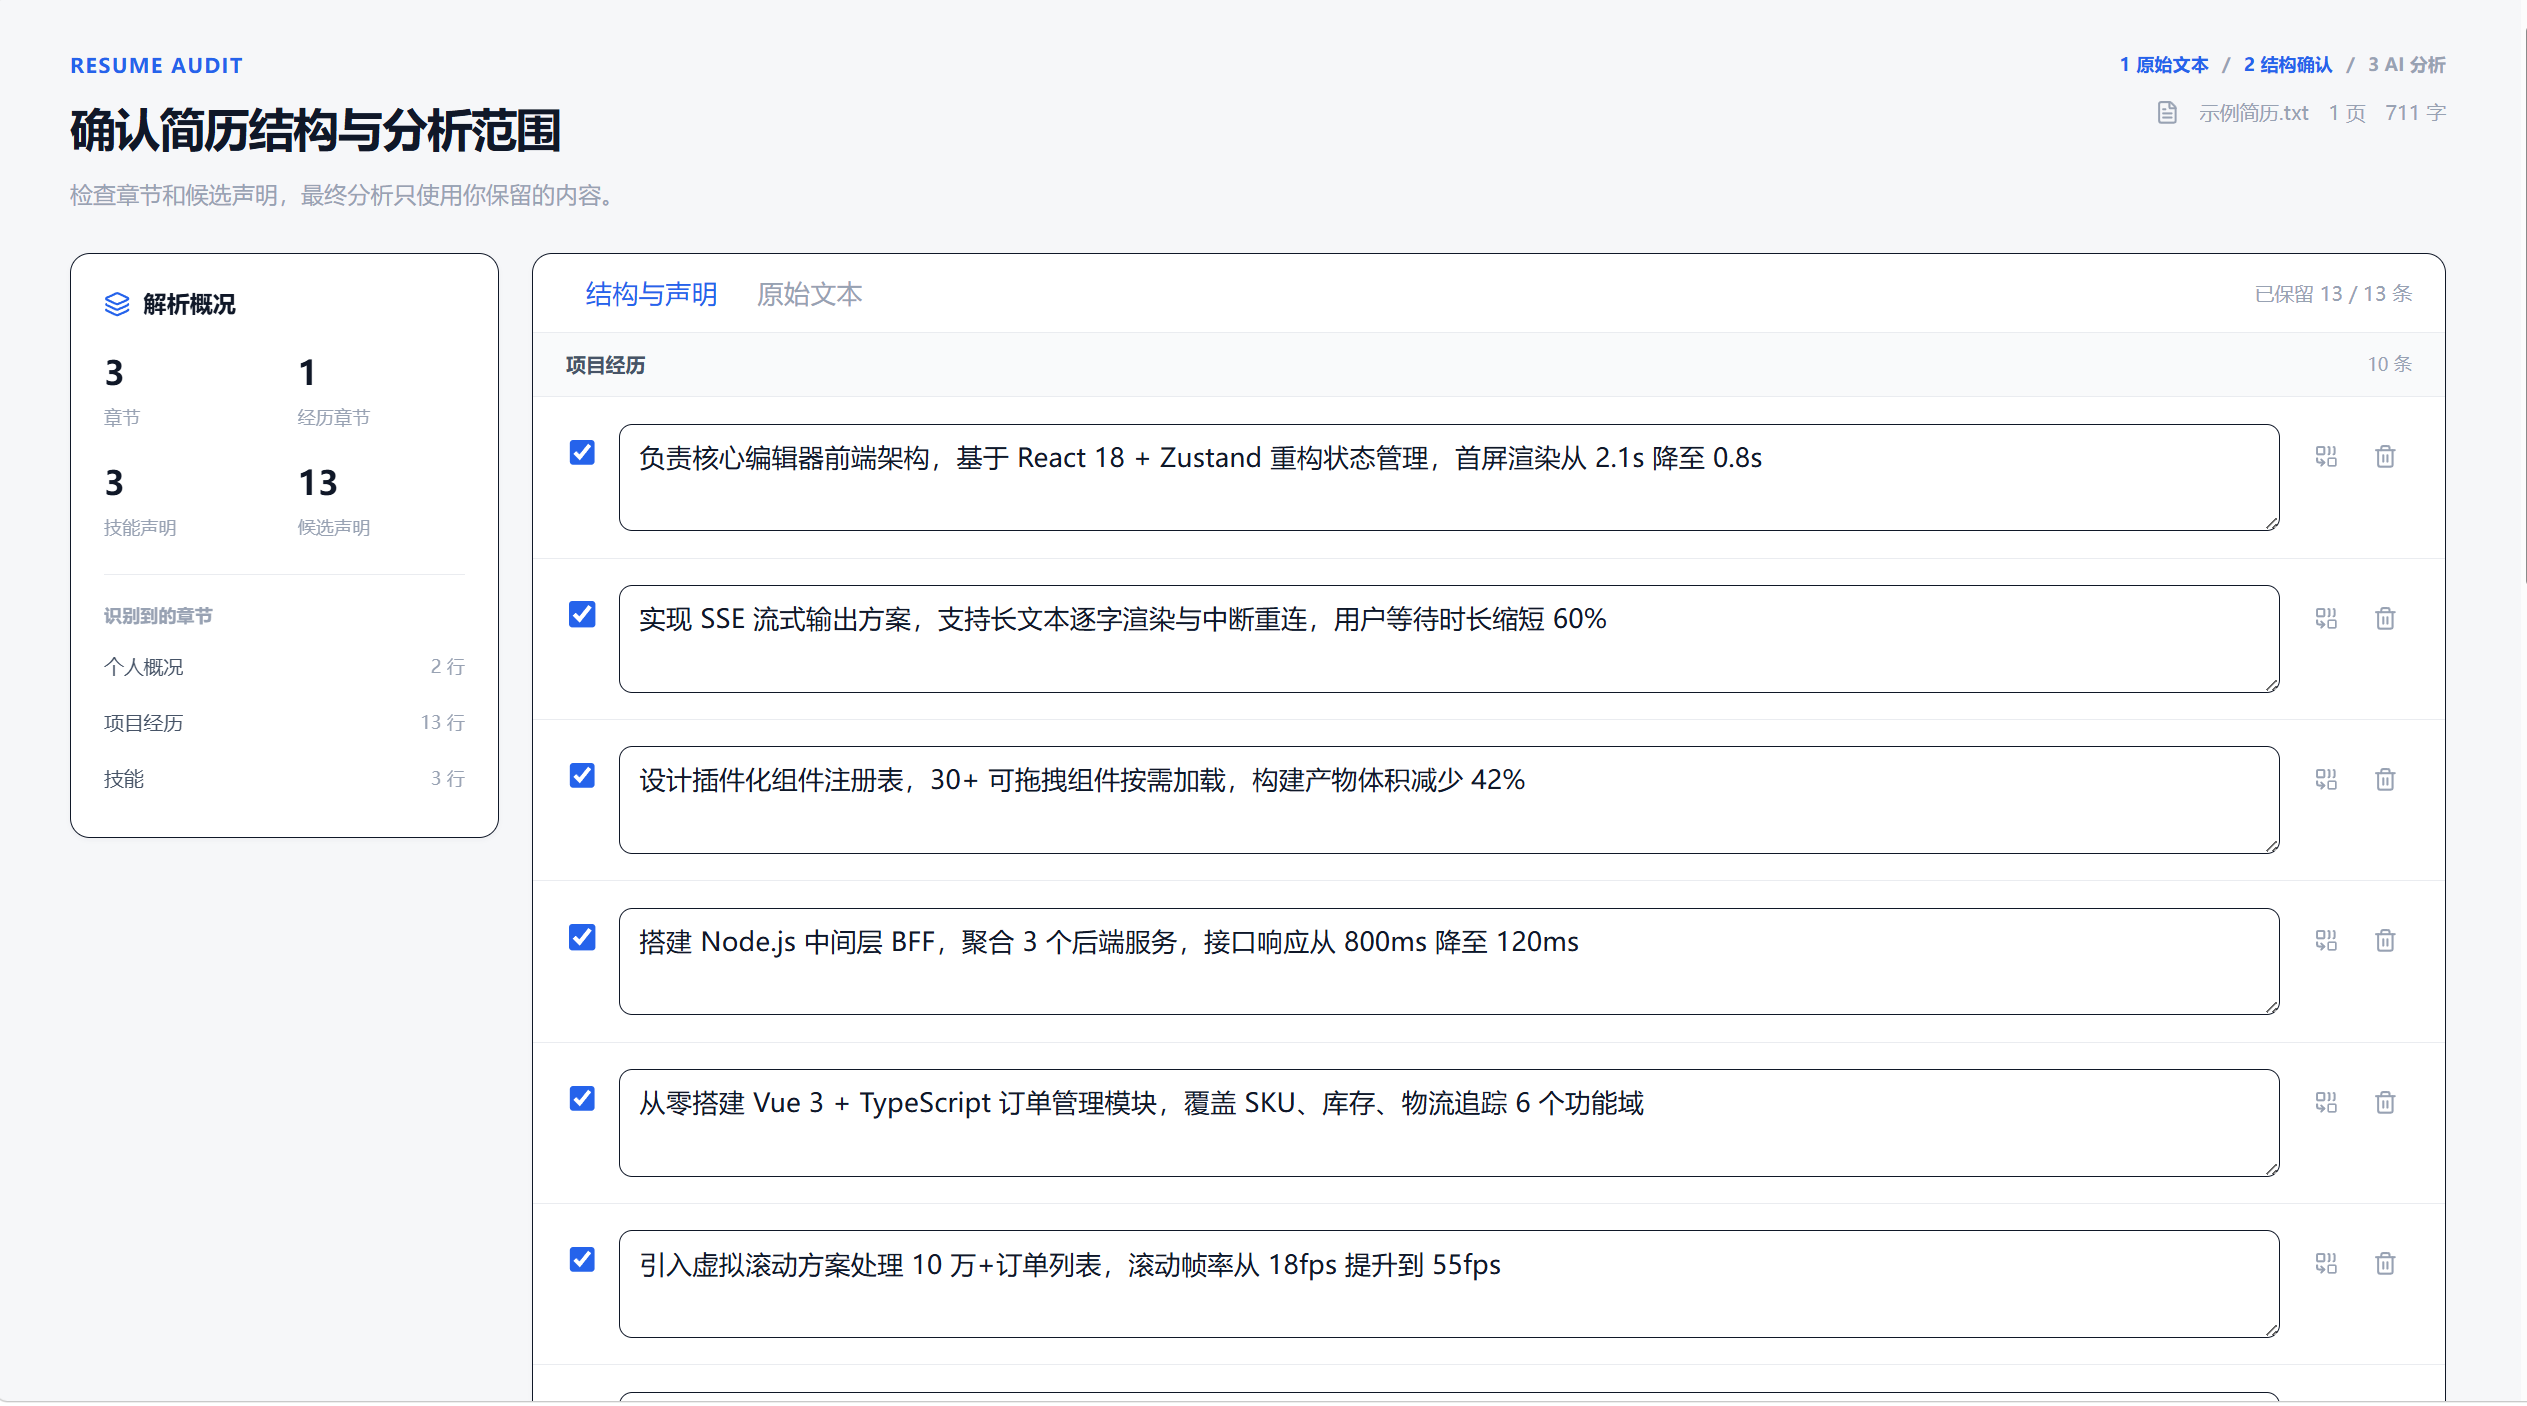
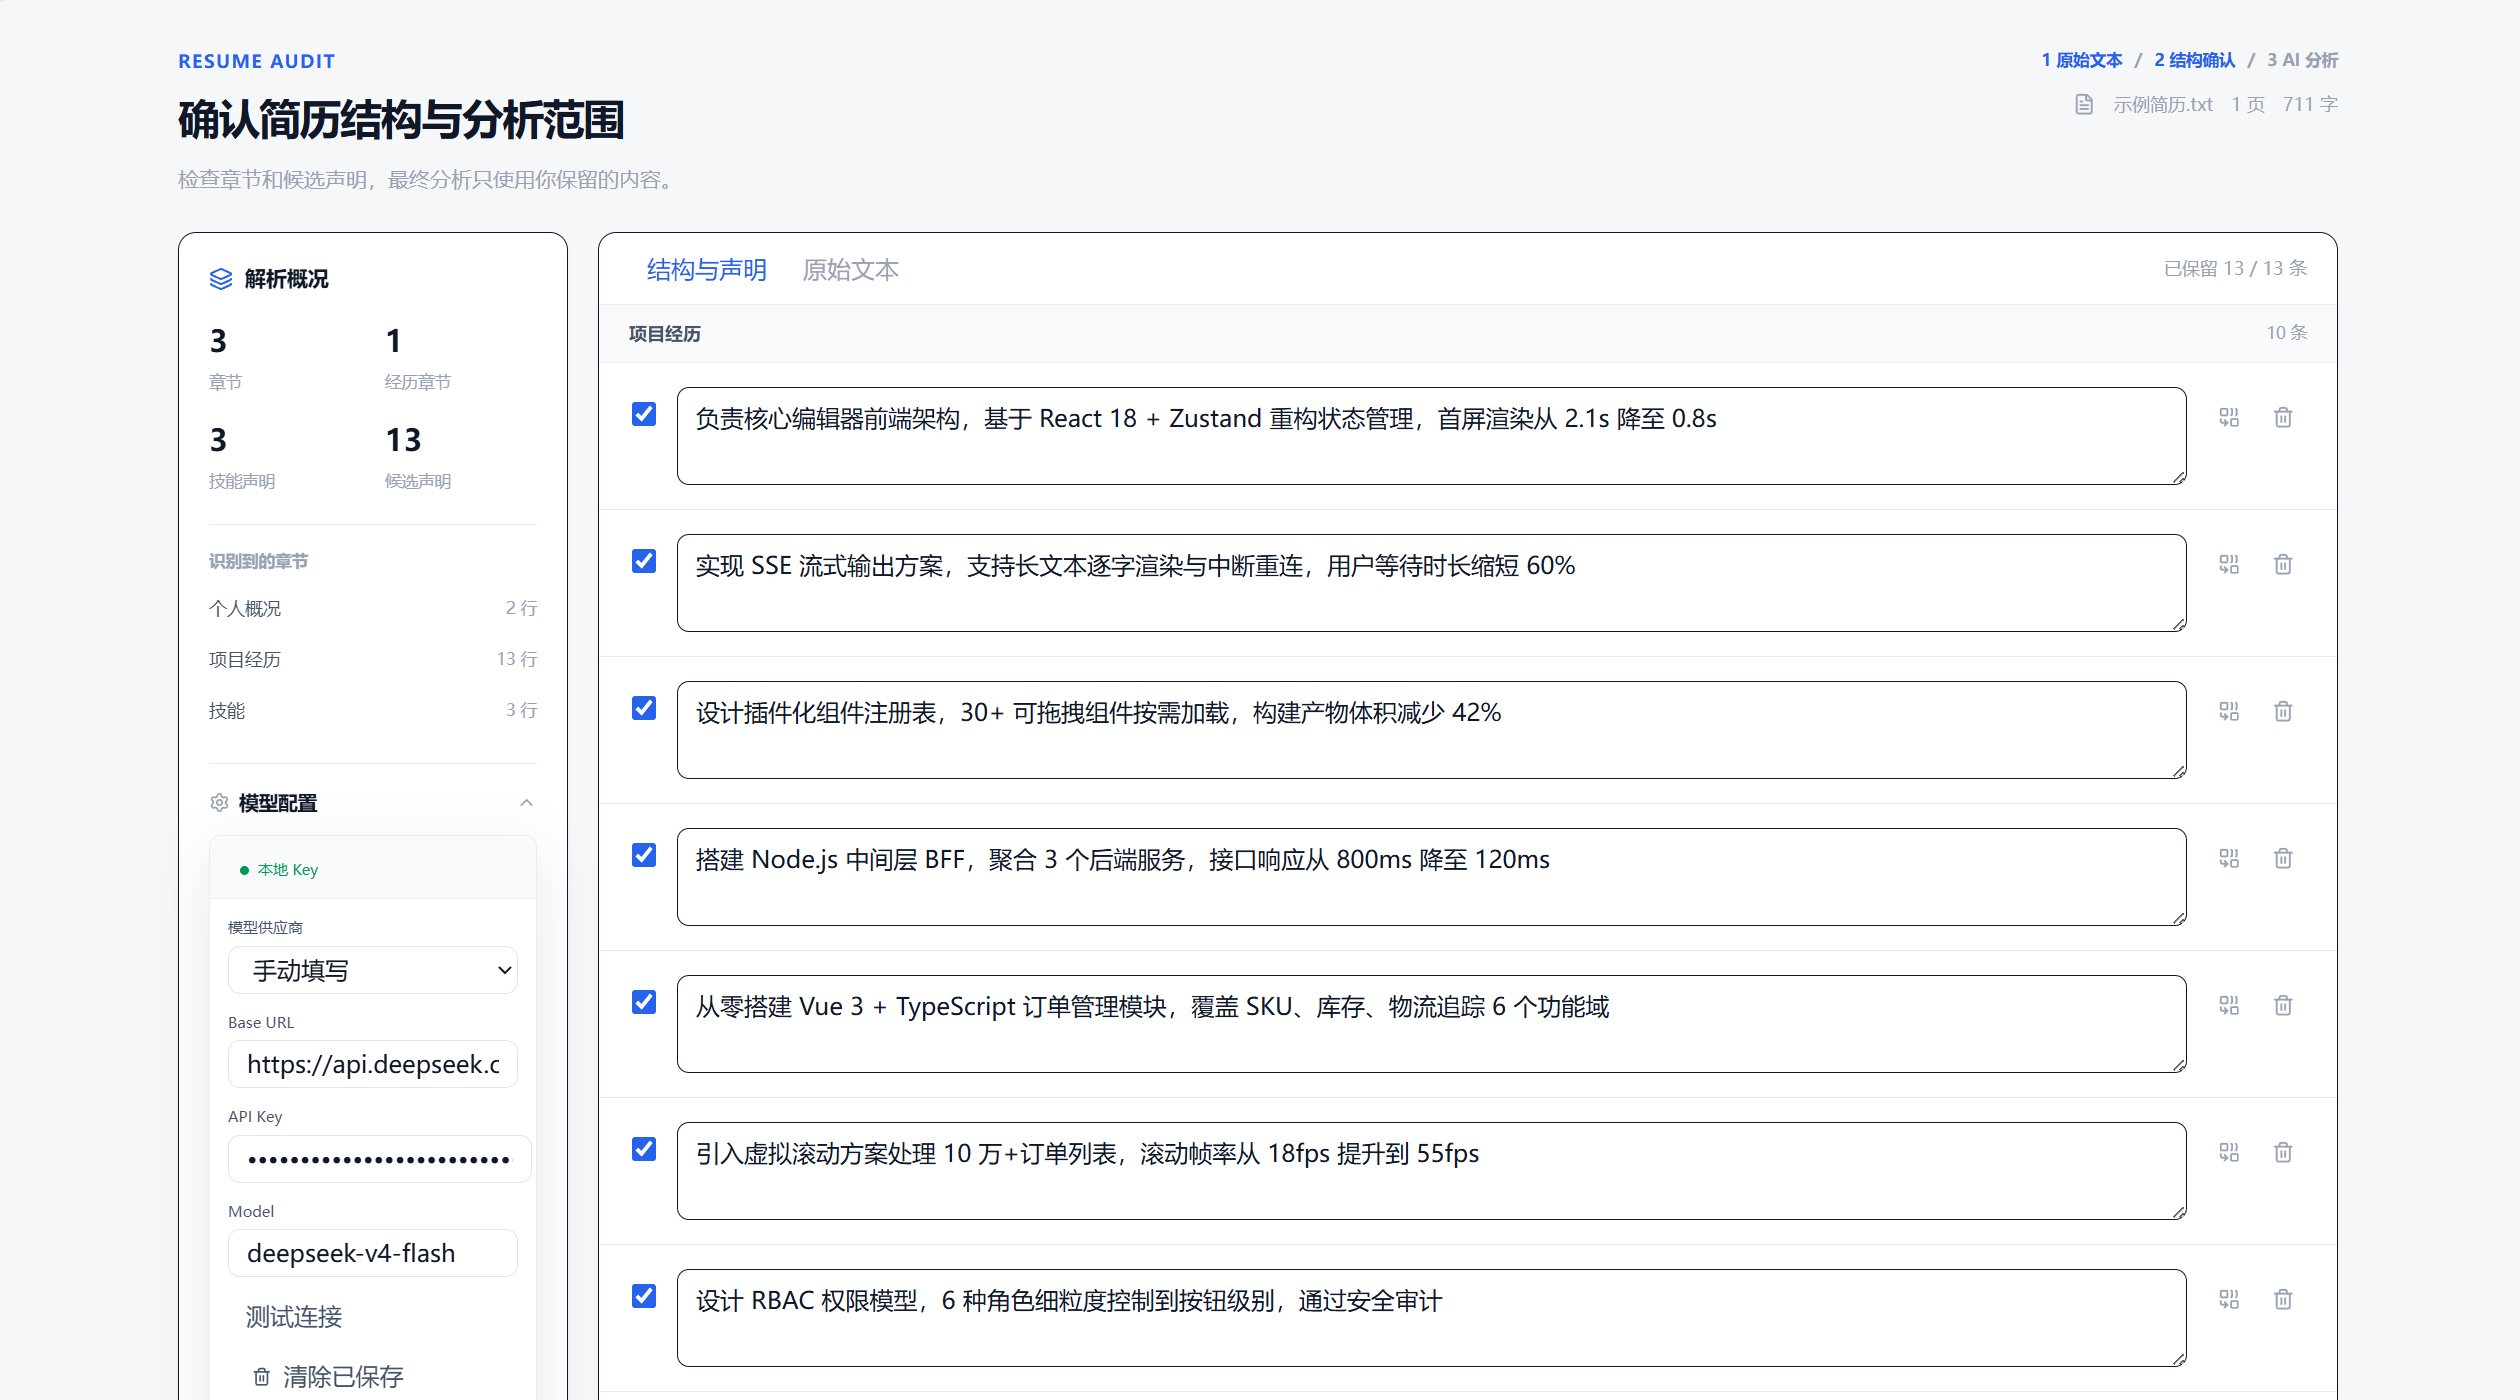
feat: 修正一些小问题

diff --git a/src/components/workspace/WorkspaceTopBar.tsx b/src/components/workspace/WorkspaceTopBar.tsx
@@ -32,9 +32,11 @@ export function WorkspaceTopBar({ analysis, llmMode, envConfigured, clientConfig
   return (
     <header className="flex h-16 items-center justify-between border-b border-border bg-white/92 backdrop-blur-lg px-7 sticky top-0 z-30">
       <div className="flex items-center gap-3 min-w-0">
-        <div className="grid size-9 place-items-center rounded-[10px] bg-text-primary text-white font-extrabold tracking-[-0.03em] shadow-[0_1px_3px_rgba(16,24,40,0.04)] flex-none">
-          <button type="button" onClick={onLogoClick} className="cursor-pointer" title="返回上传页"><span className="text-[13px]">RG</span></button>
-        </div>
+        <button type="button" onClick={onLogoClick} className="flex cursor-pointer items-center gap-2" title="返回上传页">
+          <span className="grid size-9 flex-none place-items-center overflow-hidden rounded-[10px] bg-white shadow-[0_1px_3px_rgba(16,24,40,0.04)]">
+            <img src="/favicon.svg" alt="简历拷打机" className="size-9" />
+          </span>
+        </button>
         <div className="flex min-w-0 flex-col">
           <strong className="text-[15px] font-bold tracking-[-0.01em]">{analysis.candidate} · {analysis.role}</strong>
           <span className="text-text-tertiary text-[12px] mt-0.5 truncate">{analysis.sourceFile}</span>
@@ -48,7 +50,6 @@ export function WorkspaceTopBar({ analysis, llmMode, envConfigured, clientConfig
           </span>
         )}
         <SettingsPopover envConfigured={envConfigured} clientConfigured={clientConfigured} onClientChanged={onClientChanged} compact />
-        <Button variant="ghost" onClick={onRerun} className="hidden md:inline-flex"><MoreHorizontal size={16} /></Button>
         <div ref={menuRef} className="relative">
           <Button variant="secondary" onClick={() => setMenuOpen((o) => !o)}><Download size={16} />导出</Button>
           {menuOpen && (

diff --git a/src/components/resume/ResumeImportView.tsx b/src/components/resume/ResumeImportView.tsx
@@ -88,9 +88,10 @@ export function ResumeImportView({ analyzing, error, onExtracted, envConfigured,
       <SettingsPopover envConfigured={envConfigured} clientConfigured={clientConfigured} onClientChanged={onClientChanged} open={settingsOpen} onOpenChange={setSettingsOpen} />
 
       <div className="mb-10 text-center">
-        <h1 className="text-[28px] font-bold tracking-tight text-text-primary leading-[1.2] mb-3">找出简历里最容易被问穿的那句话</h1>
-        <p className="text-text-secondary text-[15px] leading-relaxed max-w-[520px] mx-auto">
-          上传简历，让 AI 面试官帮你评估经历的可信度，并为你提供潜在的追问方向。
+        <img src="/favicon.svg" alt="简历拷打机" className="mx-auto mb-4 block size-13" />
+        <h1 className="mb-3 text-[28px] font-bold leading-[1.2] tracking-tight text-text-primary">resume-grill</h1>
+        <p className="mx-auto max-w-[520px] text-[15px] leading-relaxed text-text-secondary">
+          上传简历，让 AI 帮你排查经历盲区，预测面试官的追问逻辑。
         </p>
       </div>
 

diff --git a/src/components/workspace/WorkspaceHeader.tsx b/src/components/workspace/WorkspaceHeader.tsx
@@ -60,10 +60,10 @@ export function WorkspaceHeader({
             能力清单
           </div>
           <h1 className="m-0 text-[28px] font-bold tracking-[-0.035em]">
-            找出简历中最容易被问穿的那句话
+            提前锁定简历中最容易卡壳的细节。
           </h1>
           <p className="mt-2 text-text-tertiary text-[14px] leading-relaxed">
-            不判断简历真假，而是通过追问检查你是否真正掌握了所写的能力。
+            通过层层深挖，帮你确认是不是真的吃透了写在纸上的经历。
           </p>
         </div>
         <div

diff --git a/app/layout.tsx b/app/layout.tsx
@@ -3,8 +3,8 @@ import type { ReactNode } from 'react'
 import './globals.css'
 
 export const metadata: Metadata = {
-  title: '简历拷打机',
-  description: '把简历里的项目和成果提前问一遍，看看哪些地方还讲不清。',
+  title: 'resume-grill',
+  description: '对简历里的项目成果做一次深度排查，提前暴露还没讲透的盲区。',
   icons: { icon: '/favicon.svg?v=2' },
 }
 
